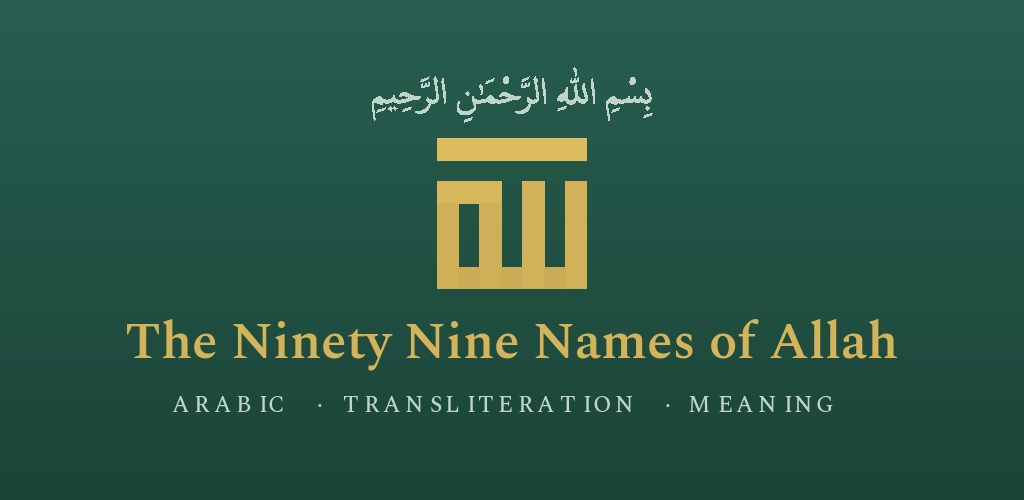
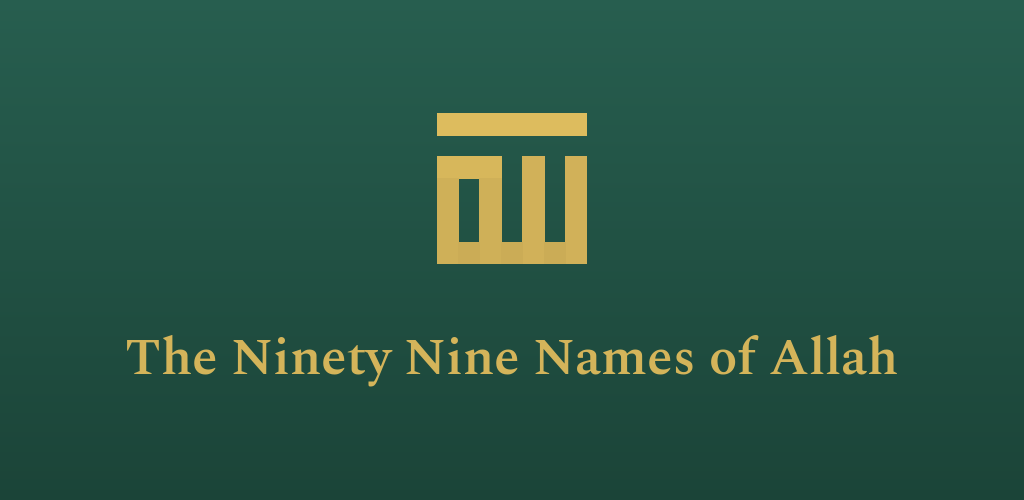
1.34 / 44: the mark steps back on every plate it wears, and the feature graphic sheds the Bismillah and tagline
The square-Kufic Allah drew at 1.166x of its geometry (41% of the
adaptive canvas), a scale chosen against the raw vector's mask. A
launcher draws that 108-unit canvas inside 72 units of its own, so on
the S23's grid the ink read as crowding its emerald plate, in the app
drawer and in the notification alike, which wears the same plate
behind the same mark. The group now scales 1.0, the mark at its drawn
37.98 units (35.2%): one number to turn for the launcher and the
splash, which share the drawable.

- The legacy mipmap PNGs take the same 0.8576 step. They keep their
  field, corner alpha and gold ramp pixel for pixel; only the mark's
  ink moved, so nothing but the drawing changed.
- The notification glyph is the same drawing mapped into Material's
  24-unit box at the same ratio (0.833 to 0.715 of the box). Its
  viewport is not the launcher's plate, so the number differs while
  the intent does not. The ink is centred on the box rather than the
  box's centre, which a symmetric mark would hide but this one does
  not.
- The store icon keeps its size: the user judged Google Play correct,
  and an unmasked listing icon carries its mark larger by convention.
  It was only re-rendered.
- The feature graphic now carries the mark and the app's name alone:
  the Bismillah and the ARABIC / TRANSLITERATION / MEANING tagline are
  gone, and with nothing left beneath the name the lockup moved down
  and centres in the field. Its field, mark pixels and Spectral
[…]

diff --git a/app/src/main/java/io/github/muntasimulhaque/ninetynine/daily/DailyScheduler.kt b/app/src/main/java/io/github/muntasimulhaque/ninetynine/daily/DailyScheduler.kt
@@ -300,8 +300,8 @@ class NotificationWorker(context: Context, params: WorkerParameters) :
             // A daily invitation to read, not an alarm or a calendar event.
             .setCategory(NotificationCompat.CATEGORY_REMINDER)
             // System-font surface: use the Noto-safe form of الله (see DailyNameWidget).
-            // The middle dot is the same separator the feature graphic's tagline
-            // wears, the shade's one line of typography, set rather than joined.
+            // The middle dot separates the Arabic from the transliteration, set
+            // rather than joined, the shade's one line of typography.
             .setContentTitle("${DailyNameWidget.systemFontSafeArabic(name.arabic)} · ${name.transliteration}")
             .setContentText(name.title)
             .setStyle(dailyStyle(context, name))

diff --git a/docs/play-listing.md b/docs/play-listing.md
@@ -25,7 +25,7 @@ rejoining; the length limits are Play's (80 and 4000 characters).
 
 - **Application ID (package name):** `io.github.muntasimulhaque.ninetynine`
 - **Privacy policy URL:** `https://muntasimulhaque.github.io/ninetynine/privacy-policy.html`
-- **Version (this release):** versionName `1.33`, versionCode `43`
+- **Version (this release):** versionName `1.34`, versionCode `44`
 
 ---
 
@@ -87,6 +87,12 @@ FREE, AND PRIVATE
 No ads. No accounts. No in-app purchases. No analytics, no tracking, no third party libraries. Plenty of apps that call themselves private mean they promise not to look; this one cannot look; it has no way to reach the network at all. The code is open source under the MIT license, so anyone can read exactly what it does.
 
 May Allah make us among those who learn, memorize, understand and act upon His beautiful Names.
+```
+
+## What's new (version 1.34)
+
+```
+The app's mark now sits a little smaller in its tile, in the app drawer and in the notification, so it no longer crowds the emerald plate around it. The Play listing's icon and feature graphic were refreshed to match.
 ```
 
 ## What's new (version 1.33)
